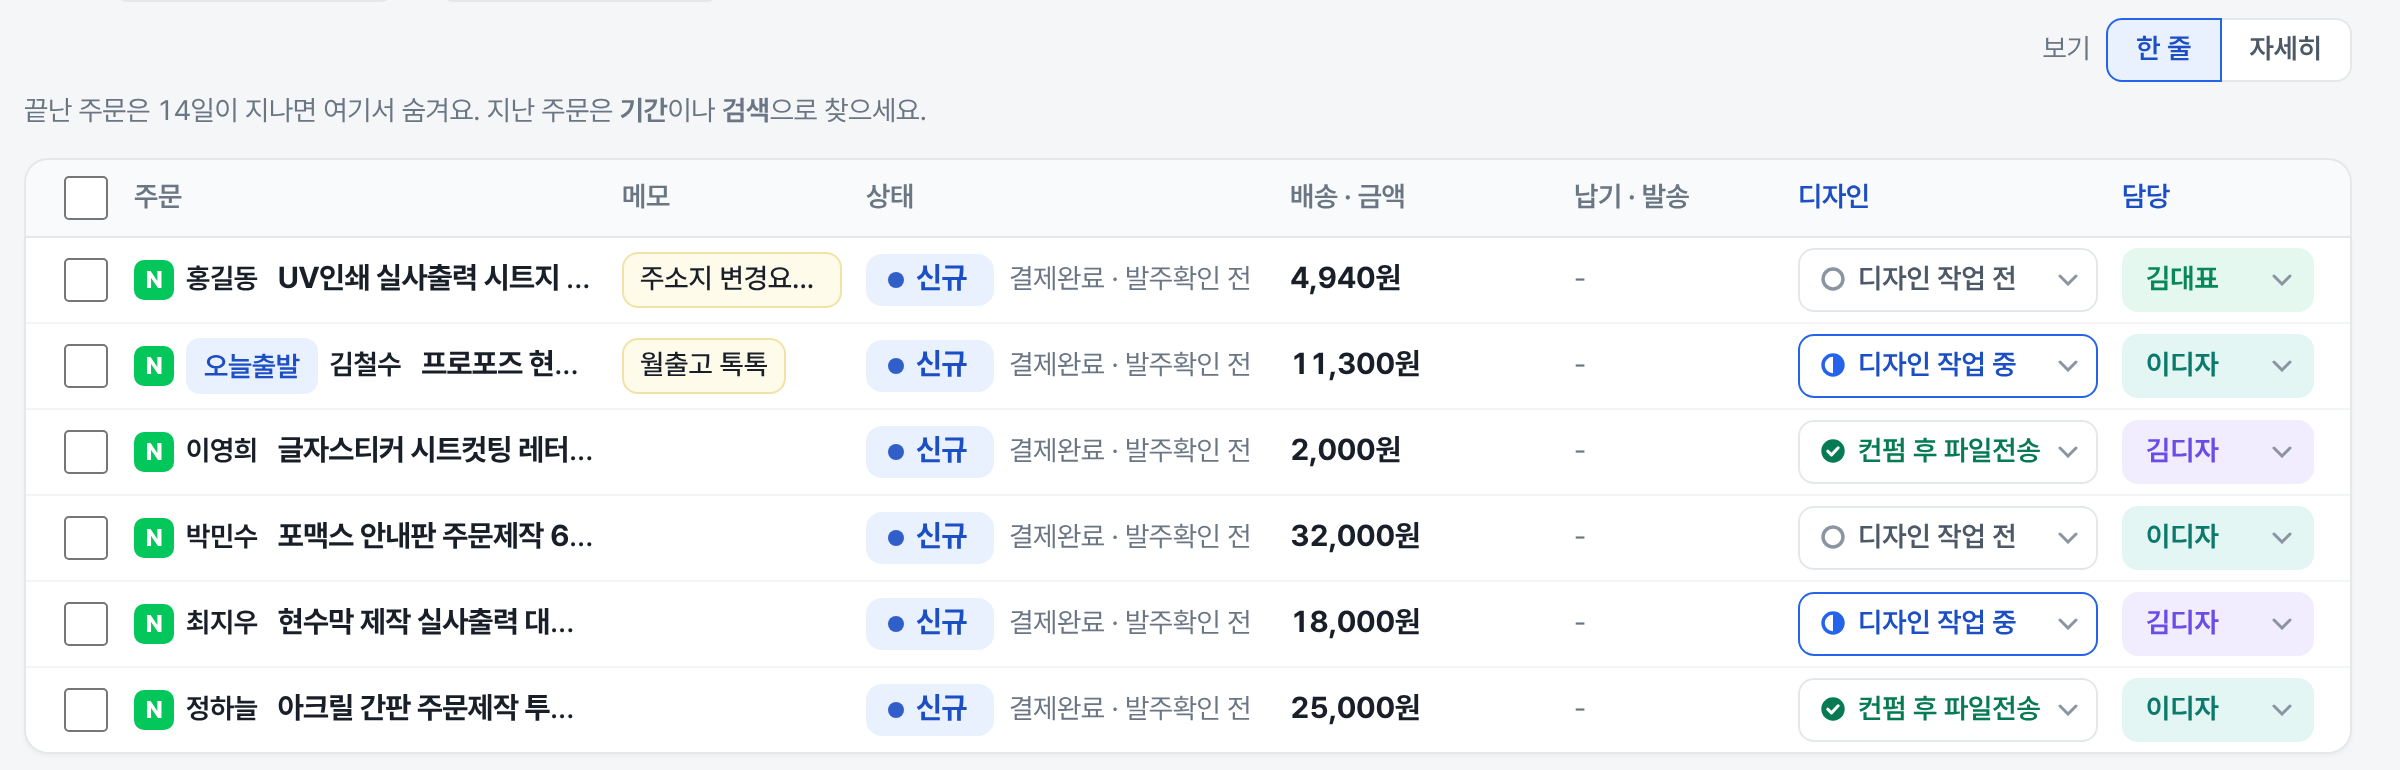
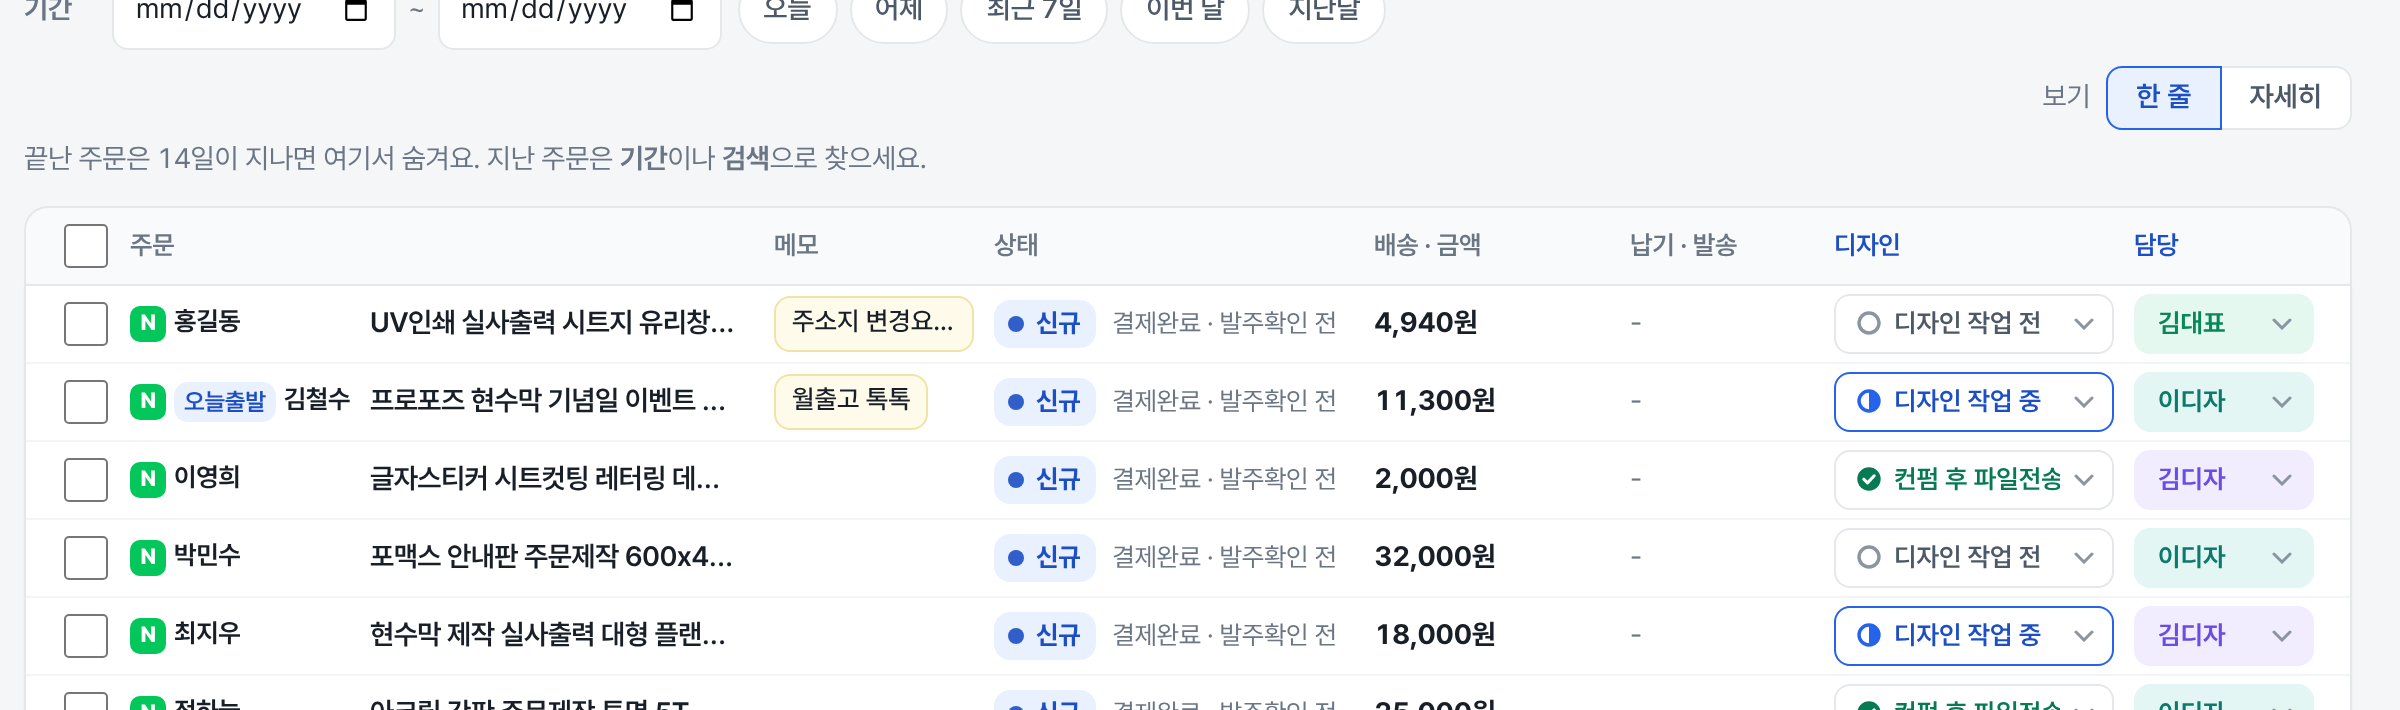
한 줄 보기: 판매처·이름 칸과 상품명 칸 따로(줄 맞춤), 메모도 길면 …, 글씨 13~14px 로 작게, 칸 너비 줄여 상품명 넓게
Claude-Session: https://claude.ai/code/session_01Abfsu9LLooC7rduTcq19z3

diff --git a/public/style.css b/public/style.css
@@ -2402,6 +2402,7 @@ a.hm-due .hm-ev-who { color: var(--primary-text); }
 .pay-table td.num strong { font-size: 16px; }
 
 /* ───────── 주문 목록: 한 줄 보기 (body.orders-line, 넓은 화면에서만) ─────────
+   사용자 요청(2026-11): 한 줄에 다 보이는 게 중요해서 이 보기만 글자 13px 까지 허용 (14px 규칙 예외)
    구매처+이름 / 상품명(넘치면 …) / 상태(배지 옆에 채널 상태) / 택배 옆에 금액 — 한 화면에 주문을 많이
    옵션·추가 옵션·결제 시각은 숨기고, 주문을 눌러 상세에서 본다. 보기 버튼으로 '자세히' 로 돌아간다 */
 .view-toggle { display: none; }
@@ -2414,37 +2415,42 @@ a.hm-due .hm-ev-who { color: var(--primary-text); }
   .view-toggle button:last-of-type { border-radius: 0 8px 8px 0; margin-left: -1px; }
   .view-toggle button.on { position: relative; border-color: var(--primary); background: var(--primary-weak); color: var(--primary-dark); }
 
-  .orders-line .order-head, .orders-line .order-head + .order-list > .order-item { grid-template-columns: var(--olln-wide, 24px minmax(0, 2fr) minmax(130px, 200px) 130px 100px 150px 96px); }
-  .orders-line .order-head + .order-list > .order-item { padding-top: 5px; padding-bottom: 5px; row-gap: 0; }
+  .orders-line .order-head, .orders-line .order-head + .order-list > .order-item { grid-template-columns: var(--olln-wide, 24px minmax(0, 2fr) minmax(120px, 180px) 118px 92px 140px 90px); }
+  .orders-line .order-head + .order-list > .order-item { padding-top: 3px; padding-bottom: 3px; row-gap: 0; column-gap: 10px; }
+  .orders-line .order-head { column-gap: 10px; }
   .orders-line .order-head + .order-list .oi-check { min-height: 32px; margin: 0; top: 0; align-self: center; }
-  /* 주문 칸: [N 이름] 상품명… 외 2 */
+  /* 주문 칸: [판매처·이름 칸 | 상품명 칸] 두 칸으로 줄 맞춤. 상품명은 넘치면 …, 여러 개면 외 N */
   .orders-line .order-list .oi-col { align-self: center; }
-  .orders-line .order-list .oi-col > .oi-main { display: flex; align-items: center; gap: 10px; min-width: 0; }
-  .orders-line .order-list .oi-main .oi-head { display: flex; flex: none; flex-wrap: nowrap; align-items: center; gap: 6px; max-width: 60%; margin: 0; overflow: hidden; line-height: 1.4; }
-  .orders-line .order-list .oi-main .oi-head > * { margin-right: 0; }
-  .orders-line .order-list .oi-main .oi-head .muted { white-space: nowrap; overflow: hidden; text-overflow: ellipsis; min-width: 0; }
-  .orders-line .order-list .oi-head > * { flex: none; }
-  .orders-line .order-list .oi-head > .muted { flex: none; } /* 이름은 줄이지 않고, 상품명이 대신 … 으로 줄어든다 */
+  .orders-line .order-list .oi-col > .oi-main { display: grid; grid-template-columns: 112px minmax(0, 1fr) auto; align-items: center; column-gap: 8px; min-width: 0; }
+  .orders-line .order-list .oi-main .oi-head { display: flex; flex-wrap: nowrap; align-items: center; gap: 4px; min-width: 0; margin: 0; overflow: hidden; line-height: 1.4; font-size: 13px; }
+  .orders-line .order-list .oi-main .oi-head > * { flex: none; margin-right: 0; }
+  .orders-line .order-list .oi-head > .muted { flex: 0 1 auto; min-width: 0; overflow: hidden; text-overflow: ellipsis; white-space: nowrap; font-size: 13px; }
   .orders-line .order-list .oi-head .buyer { white-space: nowrap; }
+  .orders-line .order-list .oi-head .ch { width: 18px; height: 18px; font-size: 11px; }
+  .orders-line .order-list .oi-head .today-badge, .orders-line .order-list .oi-head .hold-badge, .orders-line .order-list .oi-head .claim-badge, .orders-line .order-list .oi-head .src-tag { min-height: 0; height: 20px; padding: 0 5px; font-size: 12px; line-height: 20px; }
   .orders-line .order-list .oi-when, .orders-line .order-list .memo-chip, .orders-line .order-list .ev-badge { display: none; }
-  .orders-line .order-list .oi-main .oi-items { display: flex; flex: 1 1 auto; min-width: 0; }
-  .orders-line .order-list .oi-items li { flex: 1 1 auto; }
+  .orders-line .order-list .oi-main .oi-items { display: block; min-width: 0; }
   .orders-line .order-list .oi-items li ~ li, .orders-line .order-list .oi-opt, .orders-line .order-list .oi-addons { display: none; }
-  .orders-line .order-list .oi-name { font-size: 15px; }
-  .orders-line .order-list .oi-more { display: inline; flex: none; color: var(--muted); font-size: 14px; white-space: nowrap; }
+  .orders-line .order-list .oi-name { font-size: 14px; font-weight: 600; }
+  .orders-line .order-list .oi-more { display: inline; color: var(--muted); font-size: 13px; white-space: nowrap; }
   /* 메모: 한 줄 (넘치면 …) */
-  .orders-line .order-list .memo-view { min-height: 32px; padding-top: 4px; padding-bottom: 4px; }
-  .orders-line .order-list .memo-text { display: block; white-space: nowrap; overflow: hidden; text-overflow: ellipsis; }
+  .orders-line .order-list .c-memo { min-width: 0; flex-wrap: nowrap; }
+  .orders-line .order-list .memo-view { display: block; width: 100%; max-width: 100%; min-width: 0; min-height: 28px; padding-top: 3px; padding-bottom: 3px; font-size: 13px; overflow: hidden; }
+  .orders-line .order-list .memo-text { display: block; max-width: 100%; white-space: nowrap; overflow: hidden; text-overflow: ellipsis; font-size: 13px; }
   .orders-line .order-list .hold-line { white-space: nowrap; overflow: hidden; text-overflow: ellipsis; }
   /* 상태: [● 신규] 결제완료 · 발주확인 전 */
   .orders-line .order-head + .order-list .c-status { flex-direction: row; align-items: center; flex-wrap: nowrap; gap: 8px; }
-  .orders-line .order-list .c-status .st-badge { flex: none; height: 26px; }
-  .orders-line .order-list .st-sub { margin: 0; min-width: 0; }
+  .orders-line .order-list .c-status .st-badge { flex: none; height: 24px; padding: 0 8px 0 7px; font-size: 13px; }
+  .orders-line .order-list .st-sub { margin: 0; min-width: 0; font-size: 13px; }
+  .orders-line .order-list .oi-amount { font-size: 14px; }
+  .orders-line .order-list .ship-way { font-size: 12px; }
+  .orders-line .order-list .c-due, .orders-line .order-list .c-due .pill { font-size: 13px; }
   /* 배송·금액: [택배] 53,000원 */
   .orders-line .order-head + .order-list .c-ship { flex-direction: row; align-items: center; flex-wrap: nowrap; gap: 8px; }
   .orders-line .order-head + .order-list .c-due { flex-direction: row; align-items: center; flex-wrap: nowrap; }
   .orders-line .order-head + .order-list .c-due .pill { white-space: nowrap; overflow: hidden; text-overflow: ellipsis; }
-  .orders-line .order-head + .order-list .stage-select, .orders-line .order-head + .order-list .assign-select { height: 32px; min-height: 32px; }
+  .orders-line .order-head + .order-list .stage-select, .orders-line .order-head + .order-list .assign-select { height: 30px; min-height: 30px; font-size: 13px; }
+  .orders-line .order-head { font-size: 13px; }
 }
 /* 1100~1439px: 메모는 따로 칸이 아니라 (있을 때만) 주문 아래 한 줄 */
 @media (min-width: 1100px) and (max-width: 1439px) {
@@ -2452,7 +2458,7 @@ a.hm-due .hm-ev-who { color: var(--primary-text); }
 }
 /* 1440px 이상: 메모도 한 칸 (관리자가 정한 자리 --oc-<칸>) → 모든 주문이 한 줄 */
 @media (min-width: 1440px) {
-  .orders-line .order-head, .orders-line .order-head + .order-list > .order-item { grid-template-columns: var(--oll-wide, 24px minmax(0, 2fr) minmax(110px, 0.5fr) minmax(130px, 200px) 130px 100px 150px 96px); }
+  .orders-line .order-head, .orders-line .order-head + .order-list > .order-item { grid-template-columns: var(--oll-wide, 24px minmax(0, 2fr) minmax(100px, 0.4fr) minmax(120px, 180px) 118px 92px 140px 90px); }
   .orders-line .order-head .head-memo { display: block; }
   .orders-line .order-head + .order-list .oi-col { grid-area: 1 / var(--oc-main, 2); }
   .orders-line .order-head + .order-list .c-memo { grid-area: 1 / var(--oc-memo, 3); align-self: center; }

diff --git a/src/orderColumns.js b/src/orderColumns.js
@@ -7,12 +7,12 @@ const { getSetting, setSetting } = require('./collector');
 // line: 한 줄 보기 (상태·배송 칸은 글자를 옆으로 붙여 쓰므로 조금 넓게)
 const COLUMNS = {
   main: { label: '주문', wide: 'minmax(0, 1.6fr)', mid: 'minmax(0, 1.4fr)', line: 'minmax(0, 2fr)', fixed: true },
-  memo: { label: '메모', wide: 'minmax(170px, 0.7fr)', mid: 'minmax(170px, 0.7fr)', line: 'minmax(110px, 0.5fr)' }, // 1500px 이상에서만 따로 칸
-  status: { label: '상태', wide: '140px', mid: '132px', line: 'minmax(130px, 200px)' },
-  ship: { label: '배송 · 금액', wide: '104px', mid: '100px', line: '130px' },
-  due: { label: '납기 · 발송', wide: '132px', mid: '124px', line: '100px' },
-  design: { label: '디자인', wide: '168px', mid: '164px', line: '150px', pick: true },
-  assign: { label: '담당', wide: '112px', mid: '104px', line: '96px', pick: true },
+  memo: { label: '메모', wide: 'minmax(170px, 0.7fr)', mid: 'minmax(170px, 0.7fr)', line: 'minmax(100px, 0.4fr)' }, // 1500px 이상에서만 따로 칸
+  status: { label: '상태', wide: '140px', mid: '132px', line: 'minmax(120px, 180px)' },
+  ship: { label: '배송 · 금액', wide: '104px', mid: '100px', line: '118px' },
+  due: { label: '납기 · 발송', wide: '132px', mid: '124px', line: '92px' },
+  design: { label: '디자인', wide: '168px', mid: '164px', line: '140px', pick: true },
+  assign: { label: '담당', wide: '112px', mid: '104px', line: '90px', pick: true },
 };
 const DEFAULT_ORDER = ['main', 'memo', 'status', 'ship', 'due', 'design', 'assign'];
 const KEY = 'order_columns';

diff --git a/docs/guide.md b/docs/guide.md
@@ -87,7 +87,7 @@
 
 PC 화면에서는 주문 목록 오른쪽 위 **보기: 한 줄 / 자세히**로 고를 수 있어요. 처음에는 **한 줄**이에요. 고른 것은 내 계정에 기억돼요.
 
-- **한 줄**: 주문마다 한 줄 — 판매처·이름, 상품명(길면 …, 상품이 여러 개면 '외 N'), 메모, 상태(배지 옆에 결제완료·발주확인 전 등), 택배·금액, 납기, 디자인, 담당. 한 화면에 주문을 많이 볼 수 있어요.
+- **한 줄**: 주문마다 한 줄 — 판매처·이름 칸, 상품명 칸(길면 …, 상품이 여러 개면 '외 N'), 메모(길면 …), 상태(배지 옆에 결제완료·발주확인 전 등), 택배·금액, 납기, 디자인, 담당. 글씨를 조금 작게 해서 한 화면에 주문을 많이 볼 수 있어요.
 - 옵션·추가 옵션·결제 시각·배송 메시지는 한 줄 보기에서는 숨겨져요. 주문을 누르면 상세 화면에서 모두 보여요.
 - **자세히**: 예전처럼 옵션과 추가 옵션까지 보여요.
 - 화면 너비가 1440px보다 좁으면 메모가 있는 주문만 메모가 아래 한 줄로 나와요. 휴대폰은 늘 카드 모양이에요.
